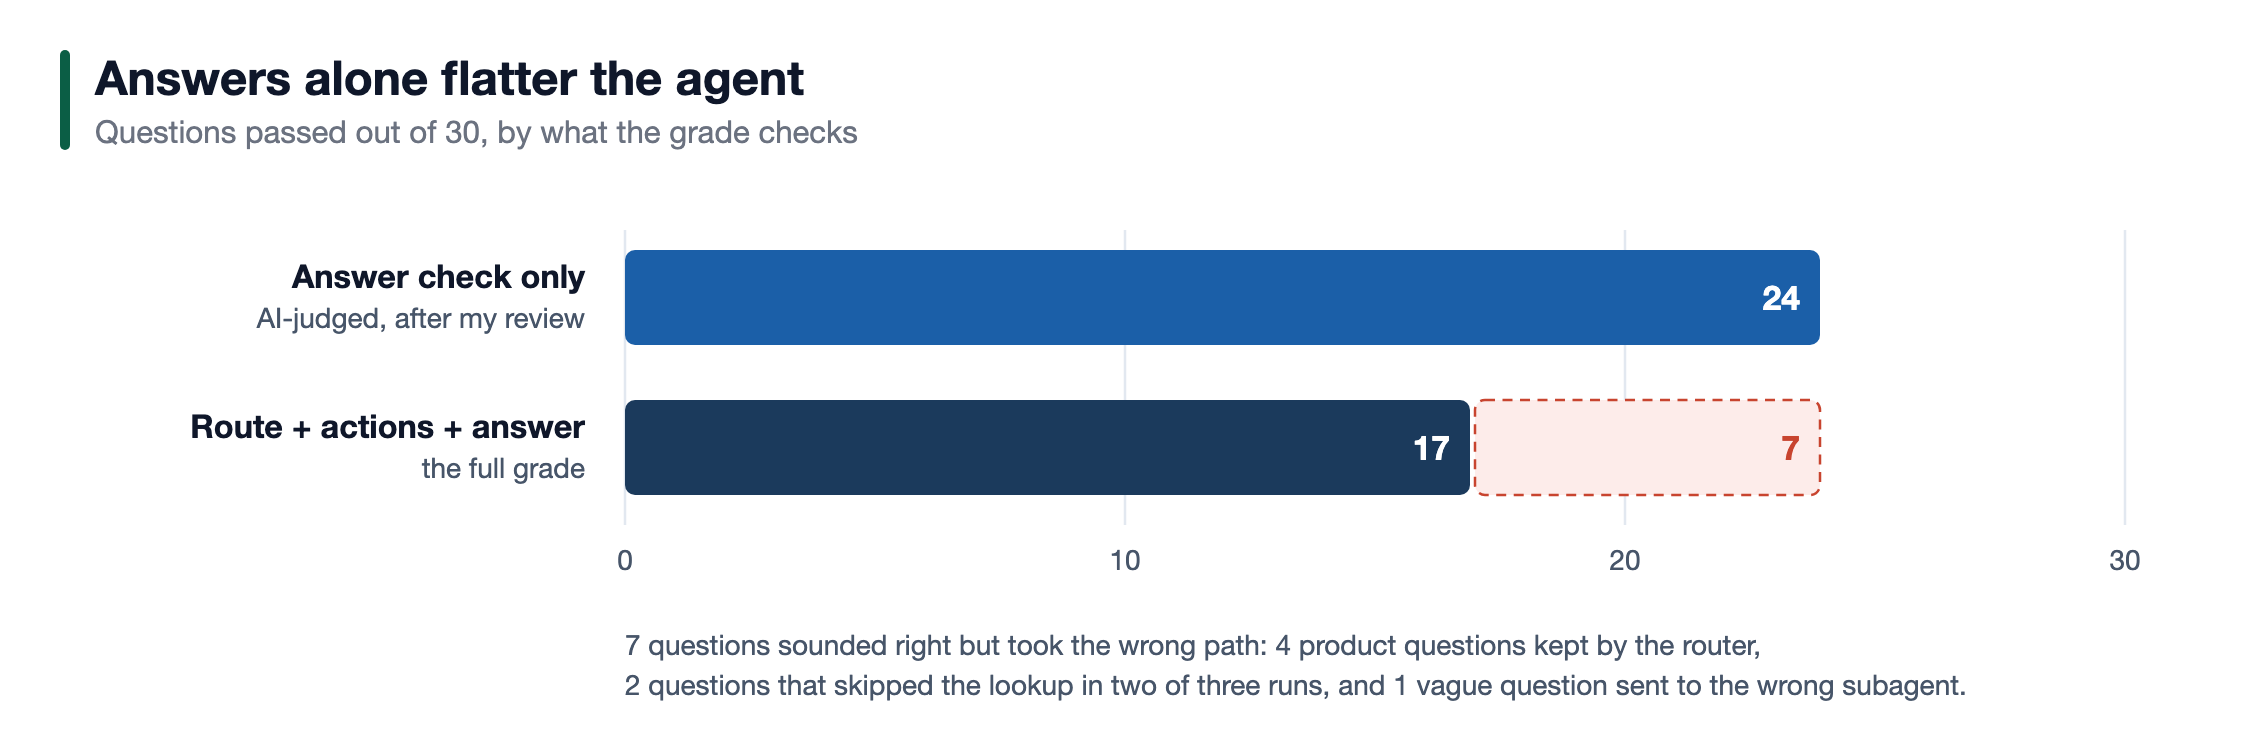
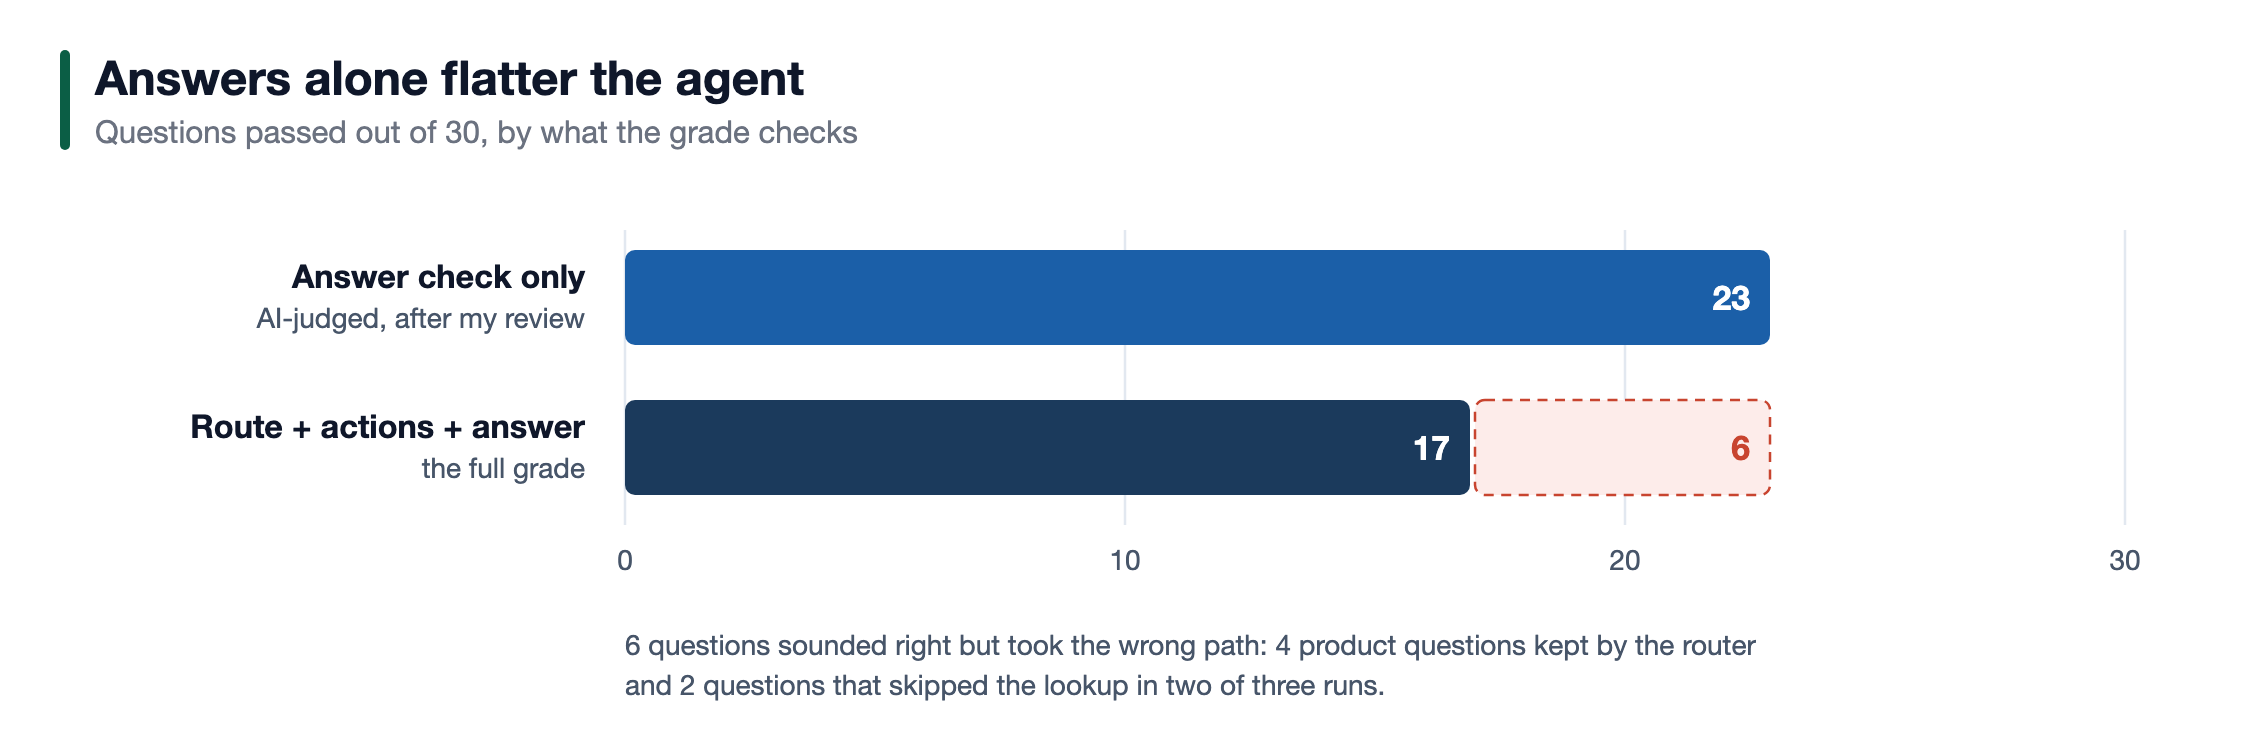
Fail VM-02 run 3 to match run 2; answers alone is now 23 of 30
Run 2 assumed which item didn't fit and was failed; run 3 assumed the
customer wanted a return instead of asking. Each missed half of the
expected answer, so both fail. The full grade stays 17 of 30 and the
flips stay at 5. Also guard isMain when node runs without a script path.

diff --git a/README.md b/README.md
@@ -30,7 +30,7 @@ Everything here is ready to run the after half in an org that can call Opus.
 | Measure | Result |
 | --- | --- |
 | Day-one agent, graded on route, actions and answer | **17 of 30** |
-| Same runs, graded on the answer alone | **24 of 30** |
+| Same runs, graded on the answer alone | **23 of 30** |
 | Questions that flipped with no change to the agent | **5**, all order lookups |
 | Claude Opus calls allowed in the free and trial orgs tested | **0** (`limit=0`) |
 
@@ -234,7 +234,7 @@ The day-one agent, version 1, passed **17 of 30** questions on the
 two-of-three rule. Single runs scored 19, 18 and 17. The raw Testing Center
 files are in [`results/baseline/`](results/baseline), unedited, with the scored
 sheet and every failed check in [`scores.md`](results/baseline/scores.md). The
-AI judge's answer verdicts were reviewed by hand: 8 of 90 were overruled, each
+AI judge's answer verdicts were reviewed by hand: 9 of 90 were overruled, each
 with its reason in [`overrides.csv`](results/baseline/overrides.csv).
 
 | Category | Questions | Before (passed, 2 of 3 runs) | After |
@@ -262,8 +262,8 @@ The totals hide two things, and `npm run score` prints both:
   that passed every baseline run and fails two of three after runs is a
   regression. Three runs are the minimum; five catch more of the noise.
 - **Answers alone flatter the agent.** Graded only on its answers, after the
-  human review, the agent passes 24 of 30 in each run. Seven questions sounded right but skipped a
-  lookup or went to the wrong subagent. None of the 36 failed runs failed on
+  human review, the agent passes 23 of 30 (24, 24 and 23 in single runs). Six
+  questions sounded right but skipped a lookup or stayed with the router. None of the 36 failed runs failed on
   the answer alone.
 
 ![Answers alone versus the full grade](docs/images/answers.png)
@@ -341,7 +341,7 @@ showed four of the six product questions handled by the router instead of
 Product Help. The answers sounded right. Read the trace, not just the answer.
 
 **Grade the path, not just the answer.** Graded on answers alone, the day-one
-agent scores 24 of 30. Checking the subagent and the actions too brings it to
+agent scores 23 of 30. Checking the subagent and the actions too brings it to
 17. A tool that only improves how answers sound can look like progress.
 
 ---

diff --git a/results/baseline/scores.md b/results/baseline/scores.md
@@ -16,12 +16,12 @@ The answer check is AI-judged. Accepted human overrides are applied; proposed on
 ## What the totals hide
 
 - **Flipped with no change to the agent:** 5 (OS-01, OS-05, OS-06, RT-02, RT-03).
-- **Graded on the answer check alone:** 24 of 30 pass in at least two of three runs (runs: 24, 24, 24).
+- **Graded on the answer check alone:** 23 of 30 pass in at least two of three runs (runs: 24, 24, 23).
 - **Failed runs:** 36. With a routing failure: 21. With an action failure: 18. Failed on the answer alone: 0.
 
 ## Human overrides of the answer check
 
-8 accepted and applied, 0 proposed and not applied. See overrides.csv.
+9 accepted and applied, 0 proposed and not applied. See overrides.csv.
 
 | ID | Run | Judge | Override | Status |
 | --- | --- | --- | --- | --- |
@@ -33,6 +33,7 @@ The answer check is AI-judged. Accepted human overrides are applied; proposed on
 | RT-05 | 2 | Pass | Fail | accepted |
 | VM-03 | 2 | Pass | Fail | accepted |
 | VM-02 | 2 | Pass | Fail | accepted |
+| VM-02 | 3 | Pass | Fail | accepted |
 
 ## Every failed check
 
@@ -67,7 +68,7 @@ The answer check is AI-judged. Accepted human overrides are applied; proposed on
 | PQ-04 | 3 | subagent (topic_selector) |
 | VM-02 | 1 | subagent (product_help) |
 | VM-02 | 2 | subagent (product_help); answer |
-| VM-02 | 3 | subagent (returns) |
+| VM-02 | 3 | subagent (returns); answer |
 | VM-03 | 1 | subagent (product_help); action (got none, want get_order_status); answer |
 | VM-03 | 2 | subagent (product_help); action (got none, want get_order_status); answer |
 | VM-03 | 3 | subagent (product_help); action (got none, want get_order_status); answer |
